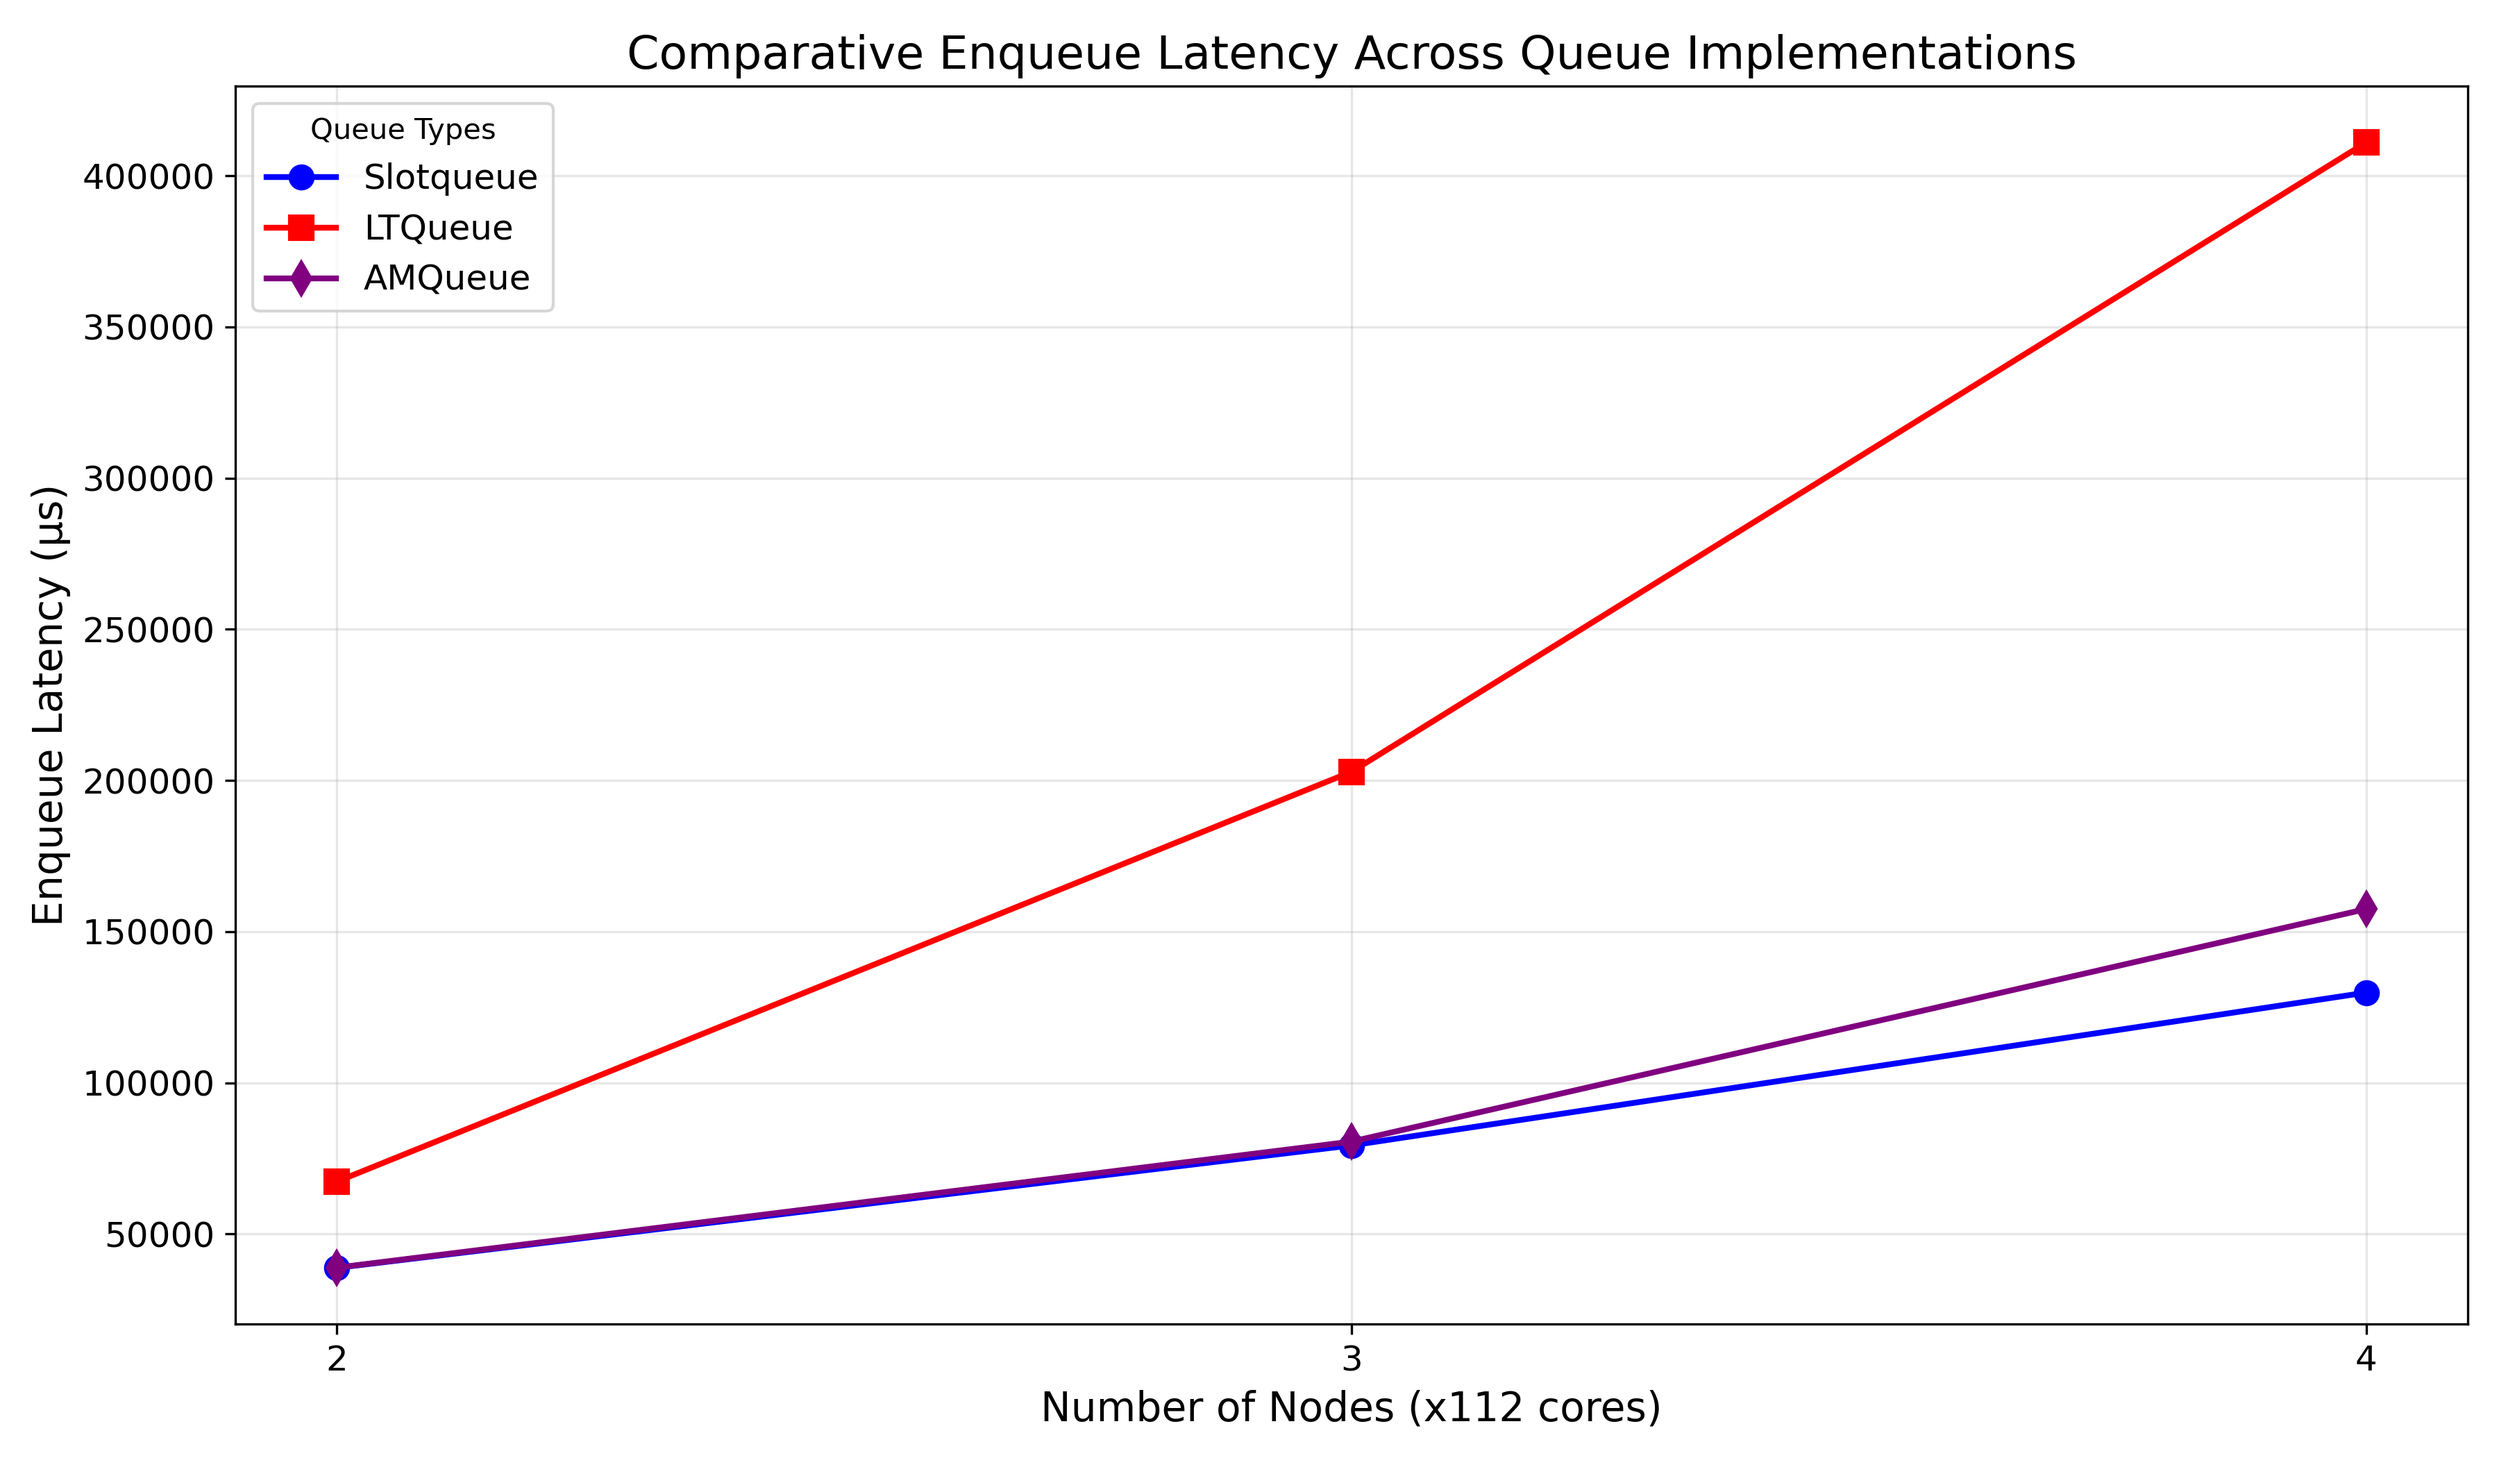
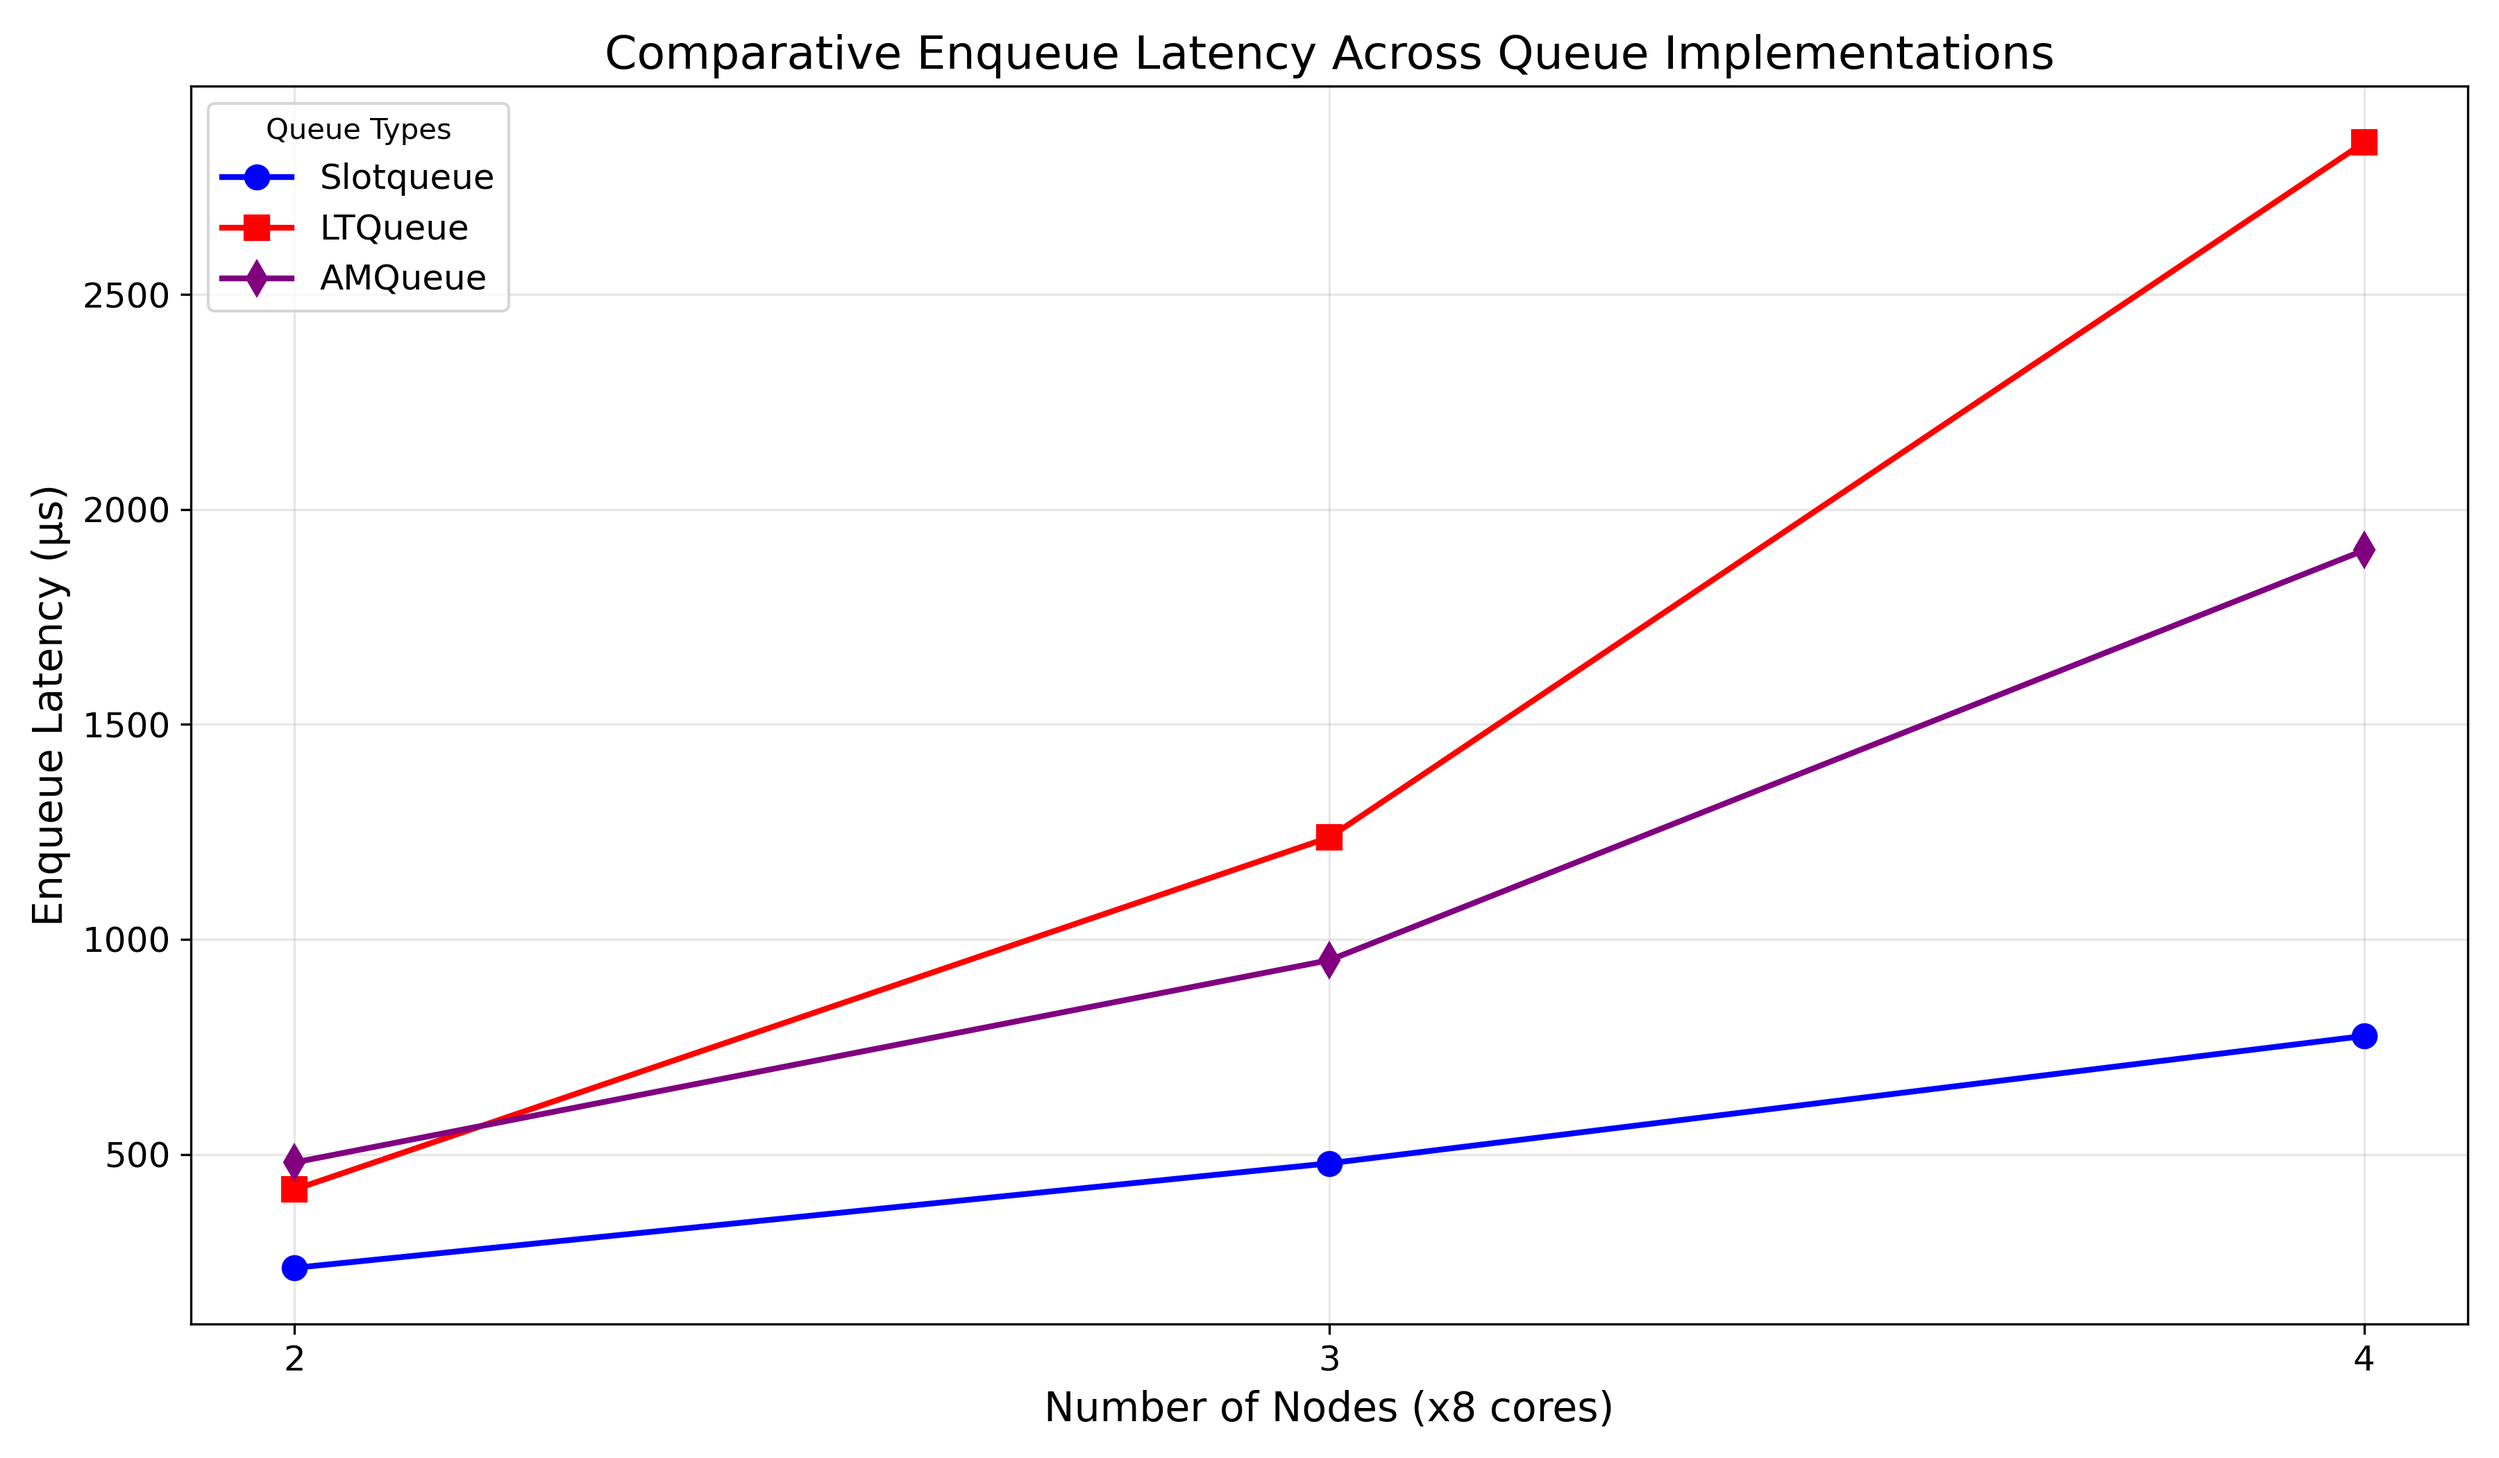
fix(viz): cm4 data

diff --git a/viz/microbenchmarks/single-one-queue/cm4/by-nodes.py b/viz/microbenchmarks/single-one-queue/cm4/by-nodes.py
@@ -8,25 +8,25 @@ nodes = [2, 3, 4]
 
 queue_data = {
     "Slotqueue": {
-        "dequeue_throughput": [0.0174704, 0.0114833, 0.00932901],
-        "dequeue_latency": [572.395, 870.83, 1071.93],
-        "enqueue_throughput": [0.0575015, 0.0422524, 0.0344312],
-        "enqueue_latency": [38781.6, 79285.4, 129824],
-        "total_throughput": [0.035002, 0.023024, 0.0189202],
+        "dequeue_throughput": [0.386877, 0.305279, 0.29129],
+        "dequeue_latency": [25.848, 32.7569, 34.33],
+        "enqueue_throughput": [9.45739, 6.99411, 5.76632],
+        "enqueue_latency": [235.794, 478.974, 775.191],
+        "total_throughput": [0.775107, 0.612084, 0.590766],
     },
     "LTQueue": {
-        "dequeue_throughput": [0.0136667, 0.0118626, 0.0105236],
-        "dequeue_latency": [731.705, 842.988, 950.244],
-        "enqueue_throughput": [0.0331294, 0.0165126, 0.0108748],
-        "enqueue_latency": [67311.8, 202875, 411043],
-        "total_throughput": [0.0273813, 0.0237844, 0.0194079],
+        "dequeue_throughput": [0.613655, 0.555507, 0.511682],
+        "dequeue_latency": [16.2958, 18.0016, 19.5434],
+        "enqueue_throughput": [5.33484, 2.70814, 1.56644],
+        "enqueue_latency": [418.007, 1237.01, 2853.6],
+        "total_throughput": [1.22946, 1.11379, 1.03774],
     },
     "AMQueue": {
-        "dequeue_throughput": [0.0634113, 0.0507263, 0.039581],
-        "dequeue_latency": [157.701, 197.137, 252.647],
-        "enqueue_throughput": [0.0574075, 0.0415926, 0.0283861],
-        "enqueue_latency": [38845.1, 80543.3, 157471],
-        "total_throughput": [0.102263, 0.0731421, 0.0500319],
+        "dequeue_throughput": [3.16927, 2.98791, 2.51888],
+        "dequeue_latency": [3.1553, 3.34682, 3.97002],
+        "enqueue_throughput": [4.63649, 3.52094, 2.34645],
+        "enqueue_latency": [480.968, 951.45, 1905],
+        "total_throughput": [5.63325, 4.88797, 3.51556],
     },
 }
 
@@ -72,7 +72,7 @@ for metric in metrics:
 
     title, unit = metric_labels[metric]
     plt.title(f"Comparative {title} Across Queue Implementations", fontsize=16)
-    plt.xlabel("Number of Nodes (x112 cores)", fontsize=14)
+    plt.xlabel("Number of Nodes (x8 cores)", fontsize=14)
     plt.ylabel(f"{title} ({unit})", fontsize=14)
     plt.grid(True, alpha=0.3)
     plt.legend(title="Queue Types", loc="best", fontsize=12)
@@ -84,6 +84,4 @@ for metric in metrics:
     plt.savefig(filename, dpi=300)
     plt.close()
 
-print(
-    "All comparative plots have been generated in the 'cm4/all/by-nodes' folder."
-)
+print("All comparative plots have been generated in the 'cm4/all/by-nodes' folder.")
